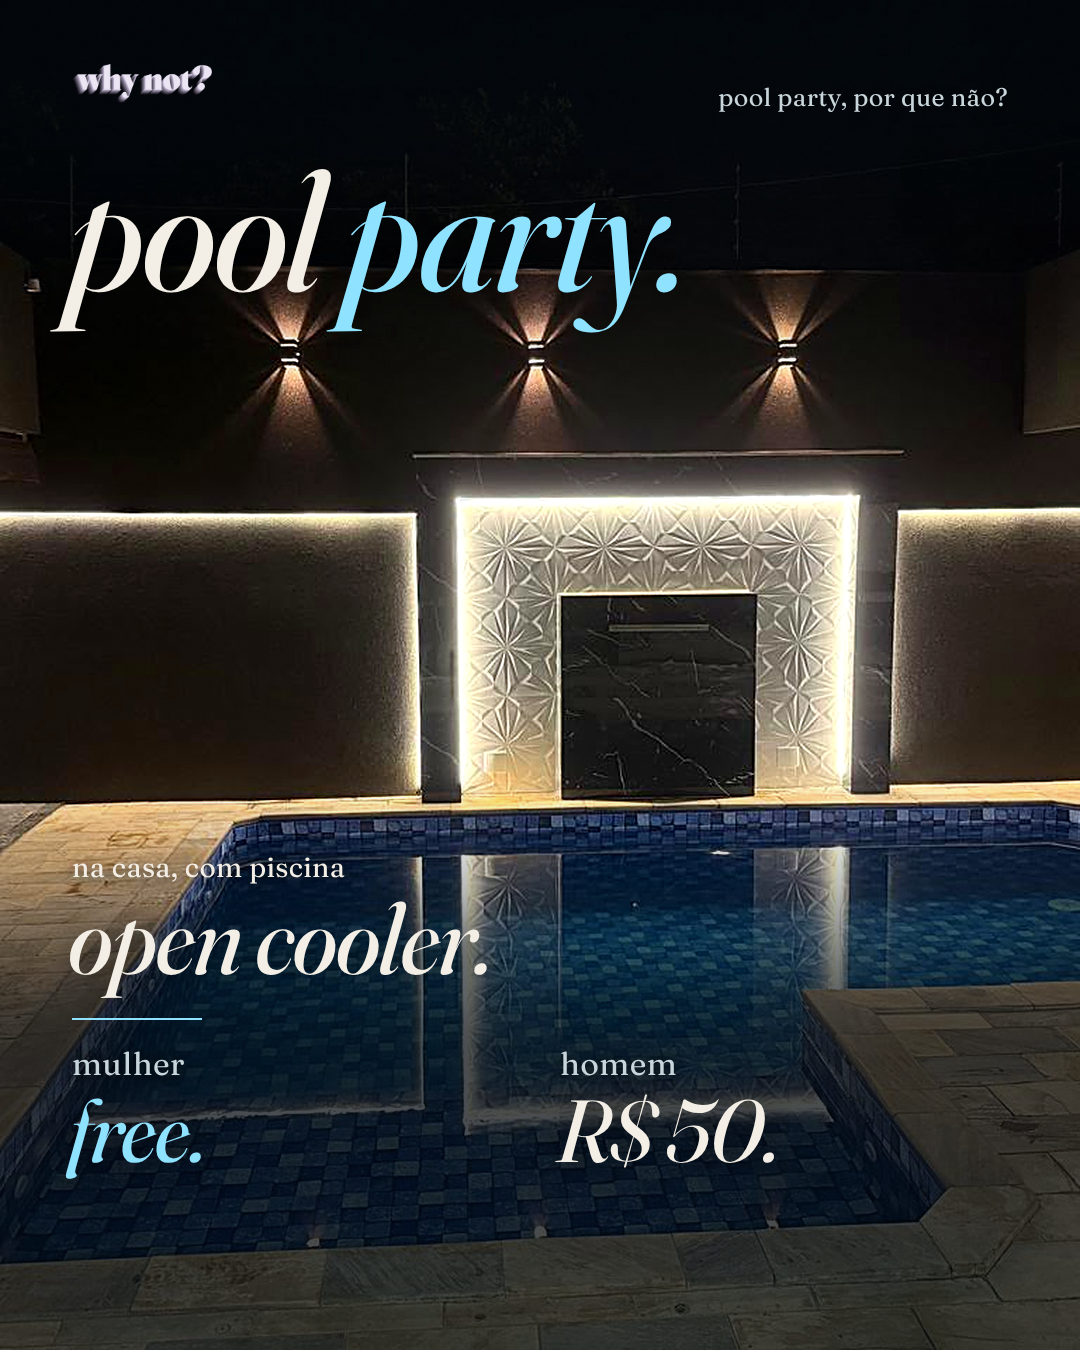
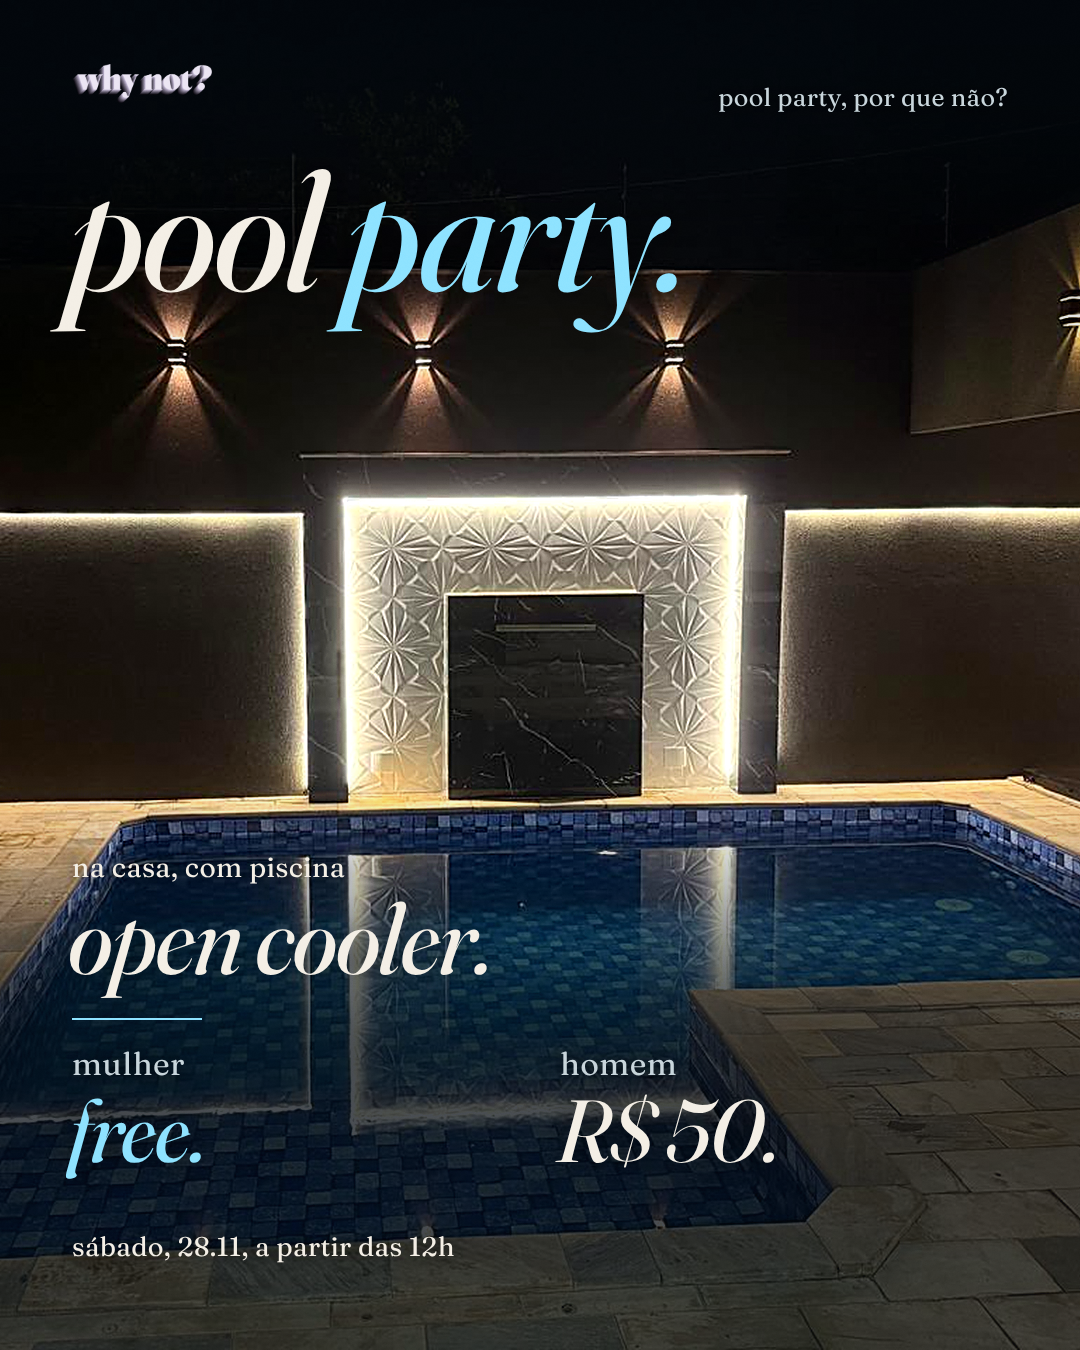
pool party: sábado 28.11 a partir das 12h, foto centralizada
Claude-Session: https://claude.ai/code/session_01EB6L4Lkud6PcZEDw1BW6Na

diff --git a/identidade/ferramentas/pool_party.py b/identidade/ferramentas/pool_party.py
@@ -35,8 +35,8 @@ def precos(y, fs, gap):
             f"<div class='m' style='left:560px;top:{y}px;font-size:{round(fs*.36)}px'>homem</div>"
             f"<div class='t' style='left:556px;top:{y+round(fs*.5)}px;font-size:{fs}px'>R$ 50.</div>")
 dl = lambda top, fs: f"<div class='m c' style='top:{top}px;font-size:{fs}px'>{DATA}</div>" if DATA else ''
-STORY = (topo(250, 160) +
-  "<div class='t' style='top:360px;font-size:200px'>pool<br><span class='a'>party.</span></div>" +
+STORY = (topo(210, 150) +
+  "<div class='t' style='top:300px;font-size:150px'>pool <span class='a'>party.</span></div>" +
   "<div class='m c' style='top:1240px;font-size:31px'>na casa, com piscina</div>"
   "<div class='t' style='top:1286px;font-size:120px'>open cooler.</div>"
   "<div class='r' style='top:1440px'></div>" + precos(1470, 104, 0) + dl(1655, 30))
@@ -45,8 +45,8 @@ FEED = (topo(64, 140) +
   "<div class='m c' style='top:850px;font-size:28px'>na casa, com piscina</div>"
   "<div class='t' style='top:890px;font-size:100px'>open cooler.</div>"
   "<div class='r' style='top:1018px'></div>" + precos(1044, 88, 0) + dl(1230, 27))
-PECAS = [('story_pool-party.png', 1080, 1920, STORY, .5, lambda y: .78 * (1 - sm((y - 150) / 520)) + .74 * sm((y - 1120) / 380)),
-         ('feed_pool-party.png', 1080, 1350, FEED, .5, lambda y: .72 * (1 - sm((y - 40) / 360)) + .72 * sm((y - 760) / 300))]
+PECAS = [('story_pool-party.png', 1080, 1920, STORY, .563, lambda y: .82 * (1 - sm((y - 330) / 300)) + .74 * sm((y - 1120) / 380)),
+         ('feed_pool-party.png', 1080, 1350, FEED, .563, lambda y: .72 * (1 - sm((y - 40) / 360)) + .72 * sm((y - 760) / 300))]
 with sync_playwright() as p:
     br = p.chromium.launch()
     for nome, W, H, html, fx, esc in PECAS:
